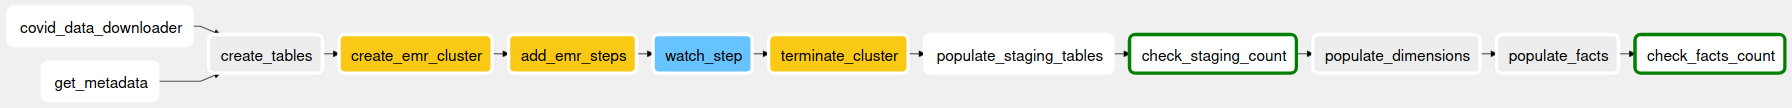
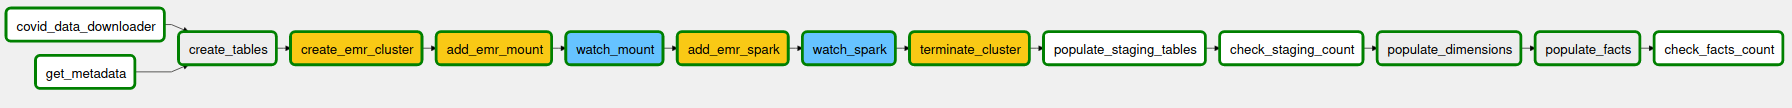
Add full documentation
- Rename main DAG
- Add READMEs
- Add requirements

ETL logic
- Separate EMR Steps to individual ones
- Simplify SQL sttmts to insert

diff --git a/plugins/helpers/sql_queries.py b/plugins/helpers/sql_queries.py
@@ -68,7 +68,6 @@ class SqlQueries :
 	"""
 
 	# DIMENSION tables
-
 	date_create = """CREATE OR REPLACE VIEW v_dim_date as
 		(SELECT
 		  	TO_CHAR(datum, 'YYYYMMDD')::INTEGER								AS date_id , 
@@ -177,21 +176,25 @@ class SqlQueries :
 	countries_insert = """
 		INSERT INTO dim_country (name, iso2, iso3)
 			SELECT DISTINCT c.name as name, c.alpha_2 as iso2, c.alpha_3  as iso3
-				FROM countries_staging c ;
+				FROM countries_staging c 
+				WHERE c.alpha_2 is not null 
+					AND c.alpha_2 NOT IN ( SELECT DISTINCT alpha_2 from dim_country );
 	"""
 
 	airports_insert = """ 
 		INSERT INTO dim_airport ( ref_id, code , type, name, municipality, country_iso2 )
 			SELECT DISTINCT id as ref_id , code, type, name, municipality , iso_country as country_iso2 
 				FROM airports_staging 
-				WHERE code IS NOT NULL ;
+				WHERE code IS NOT NULL 
+					AND code NOT IN (SELECT code FROM dim_airport) ;
 	"""
 
 	airlines_insert = """ 
 		INSERT INTO dim_airline ( code, name )
 			SELECT DISTINCT REGEXP_SUBSTR ( callsign, '[A-Za-z]{3}') as airline_code, 'TODO: Enrich' as airline_name
 				from flights_staging 
-				WHERE callsign IS NOT NULL ;
+				WHERE callsign IS NOT NULL 
+					AND airline_code not in (SELECT code FROM dim_airline)  ;
 	;"""
 
 
@@ -202,35 +205,40 @@ class SqlQueries :
 
 	airport_arrivals_insert = """
 		INSERT INTO f_airportarrivals ( fk_date, country_iso2, airport_code, nr_arrivals )
-			SELECT 
-				replace(left(f.arrival_at, 10), '-', '')::INTEGER fk_date,
-				a.iso_country as country_iso2,
-				a.code as airport_code,
-				count(distinct f.trasponder_id) as nr_arrivals 
-			FROM flights_staging as f 
-			LEFT JOIN airports_staging as a 
-				on a.code = f.arrival_airport_id
-			WHERE 
-				country_iso2 is not null
-			GROUP BY 
-				fk_date , country_iso2, airport_code ;
+			(
+				SELECT 
+					DISTINCT 
+					replace(left(f.arrival_at, 10), '-', '')::INTEGER fk_date,
+					a.iso_country as country_iso2,
+					a.code as airport_code,
+					count(distinct f.trasponder_id) as nr_arrivals 
+				FROM flights_staging as f 
+				LEFT JOIN airports_staging as a 
+					on a.code = f.arrival_airport_id
+				WHERE 
+					country_iso2 is not null and airport_code is not null and fk_date is not null
+				GROUP BY 
+					fk_date , country_iso2, airport_code 
+			);
 	"""
 
 	airline_flights_insert = """  
 		INSERT INTO f_airlineflights ( fk_date, airline_code , arrival_code, departure_code, nr_planes )
-			SELECT 
-				replace(left(f.arrival_at, 10), '-', '')::INTEGER fk_date,
-				REGEXP_SUBSTR ( f.callsign, '[A-Za-z]{3}') as airline_code,
-				a.code as arrival_code,
-				d.code as departure_code,
-				count(distinct f.trasponder_id) as nr_planes 
-			FROM flights_staging as f 
-			LEFT JOIN airports_staging as a 
-				ON a.code = f.arrival_airport_id
-			LEFT JOIN airports_staging as d 
-				ON d.code = f.depart_airport_id	
-			GROUP BY 
-				fk_date , arrival_code, airline_code, departure_code ;
+			( 
+				SELECT 
+					DISTINCT 
+                    replace(left(f.arrival_at, 10), '-', '')::INTEGER fk_date,
+					REGEXP_SUBSTR ( f.callsign, '[A-Za-z]{3}') as airline_code,
+					arrival_airport_id as arrival_code,
+					depart_airport_id as departure_code,
+					count(distinct f.trasponder_id) as nr_planes 
+				FROM flights_staging as f 
+				WHERE 
+					fk_date is not null and airline_code is not null
+				GROUP BY 
+					fk_date , arrival_code, airline_code, departure_code
+			)
+			;
 	"""
 
 	covid_per_country_insert = """
@@ -270,10 +278,11 @@ class SqlQueries :
 					FROM covid c
 					LEFT JOIN vaccination v
 						ON v.date = c.date_reported and c.alpha_2 = v.alpha_2
+					WHERE
+ 						fk_date is not null and country_iso2 is not null	
 					ORDER BY fk_date DESC 
 				)
 	"""
-
 
 	populate_facts_sttmts = [ airport_arrivals_insert , airline_flights_insert , covid_per_country_insert ]
 

diff --git a/dags/airflow_dag.py b/dags/airflow_dag.py
@@ -81,18 +81,34 @@ create_emr_task = EmrCreateJobFlowOperator(
     dag=dag
 )
 
-add_emr_steps_task = EmrAddStepsOperator(
-    task_id='add_emr_steps',
+add_emr_mount_task = EmrAddStepsOperator(
+    task_id='add_emr_mount',
     job_flow_id="{{ task_instance.xcom_pull(task_ids='create_emr_cluster', key='return_value') }}",
     aws_conn_id='aws_credentials',
-    steps=EmrHandler.SPARK_STEPS,
+    steps=EmrHandler.SPARK_STEP_MOUNT,
     dag=dag
 )
 
-watch_steps_task = EmrStepSensor(
-    task_id='watch_step',
+watch_mount_task = EmrStepSensor(
+    task_id='watch_mount',
     job_flow_id="{{ task_instance.xcom_pull('create_emr_cluster', key='return_value') }}",
-    step_id="{{ task_instance.xcom_pull(task_ids='add_emr_steps', key='return_value')[0] }}",
+    step_id="{{ task_instance.xcom_pull(task_ids='add_emr_mount', key='return_value')[0] }}",
+    aws_conn_id='aws_credentials',
+    dag=dag
+)
+
+add_emr_spark_task = EmrAddStepsOperator(
+    task_id='add_emr_spark',
+    job_flow_id="{{ task_instance.xcom_pull(task_ids='create_emr_cluster', key='return_value') }}",
+    aws_conn_id='aws_credentials',
+    steps=EmrHandler.SPARK_STEP_SPARK,
+    dag=dag
+)
+
+watch_spark_task = EmrStepSensor(
+    task_id='watch_spark',
+    job_flow_id="{{ task_instance.xcom_pull('create_emr_cluster', key='return_value') }}",
+    step_id="{{ task_instance.xcom_pull(task_ids='add_emr_spark', key='return_value')[0] }}",
     aws_conn_id='aws_credentials',
     dag=dag
 )
@@ -152,9 +168,11 @@ get_metadata_task >> create_tables_task
 covid_data_task >> create_tables_task
 
 create_tables_task >> create_emr_task 
-create_emr_task >> add_emr_steps_task
-add_emr_steps_task >> watch_steps_task
-watch_steps_task >> terminate_cluster_task
+create_emr_task >> add_emr_mount_task
+add_emr_mount_task >> watch_mount_task
+watch_mount_task >> add_emr_spark_task
+add_emr_spark_task >> watch_spark_task
+watch_spark_task >> terminate_cluster_task
 
 terminate_cluster_task >> populate_staging_task 
 populate_staging_task >> check_staging_task

diff --git a/plugins/helpers/emr_manager.py b/plugins/helpers/emr_manager.py
@@ -11,14 +11,15 @@ class EmrHandler :
 		instance_type - (str) - type of EMR master and worker nodes
 		worker_nodes - (int) - nr of worker nodes
 		JOB_FLOW_OVERRIDES - (str) - configurations for EMR cluster
-		SPARK_STEPS - (str) - steps to add for EMR cluster ETL process
+		SPARK_STEP_MOUNT - (str) - steps to add mount on EMR cluster
+		SPARK_STEP_SPARK - (str) - steps to add Spark ETL process to EMR cluster 
 		shell_script - (str) - shell script to upload to S3 to automate zenodo files download 
 	"""
 
 	s3_bucket='udacity-awss'
 
 	instance_type = "m5.xlarge"
-	worker_nodes = 2
+	worker_nodes = 3
 	key_name = "emr_udacity"
 
 
@@ -56,7 +57,7 @@ class EmrHandler :
 
 	##################################
 
-	SPARK_STEPS = [ # Note the params values are supplied to the operator
+	SPARK_STEP_MOUNT = [ # Note the params values are supplied to the operator
         {
             'Name': 'Mount s3fs and download files',
             'ActionOnFailure': 'CANCEL_AND_WAIT',
@@ -66,7 +67,10 @@ class EmrHandler :
                     's3://'+ s3_bucket +'/mount_s3fs.sh',
                 ]
             }
-        },
+        }
+	]
+	
+	SPARK_STEP_SPARK = [
        {
             'Name': 'Run Spark for downloaded data',
             'ActionOnFailure': 'CANCEL_AND_WAIT',
@@ -76,13 +80,13 @@ class EmrHandler :
                     'spark-submit',
                      '--deploy-mode',
                      'cluster',
-                     '--master',
-                     'yarn',
+                     #'--master',
+                     #'yarn',
                      's3a://' + s3_bucket +  '/etl/spark_etl.py'
                 ]
             }
         }
-	]
+    ]
 
 
 	shell_script = """

diff --git a/plugins/operators/redshift_operator.py b/plugins/operators/redshift_operator.py
@@ -73,7 +73,7 @@ class S3ToRedshiftOperator(BaseOperator):
                 table_copy_sql = S3ToRedshiftOperator.copy_sql
 
             self.log.info("Clearing data from destination Redshift table")
-            redshift.run("DELETE FROM {}".format(table['name']))
+            redshift.run("TRUNCATE {}".format(table['name']))
 
             self.log.info("Copying data from S3 to Redshift")
             rendered_key = table['s3_key'].format(**context)

diff --git a/README.md b/README.md
@@ -1,0 +1,36 @@
+## Scope  
+This is the capstone project for the Data Engineering Nanodegree.  
+
+In this project I built a data pipeline to gather data from worldwide flights and COVID cases per territory, to understand the spread of the disease and its impact in our mobility. Additionally, the development of vaccines brings hope for the near future. The present work also includes data on vaccination, which will help track and evaluate the effects in terms of prevalence of cases, as well as the rebound of aviation and the travel industry.   
+
+This theme was chosen for its recency and the academic interest and challenge it presents, due to the high cardinality provided by flights data.  
+
+## Technologies  
+Airflow, AWS EMR, Spark, AWS S3, Python, Pandas, SQL, ETL, Bash, Big Data, Data Lake, Data Warehousing,   
+
+## Data Pipeline  
+The data pipeline consists of roughly 4 phases :  
+1. Process Metadata and raw data files acquisition  
+2. Raw data preprocessing and load to staging - locally and to S3 using EMR  
+3. Dimensional model transformation and Load  
+4. Data validation and counts  
+
+For more detail, please consult `docs/2.0 data_pipeline.md` file.  
+
+## Data Model  
+We followed a simple Star Schema approach, described on `docs/1.0 data_model.md`, in which the following tables were considered:  
+
+Dimensions: Country, Airport , Airline, Date  
+
+Facts: Airport Arrivals, Airline Flights , COVID per Country  
+
+Tables marked as TODO were initially considered, but out of scope for this delivery. Still, I argue that it would be interesting to have a social media study, with setiment analysis and keyword evaluation for the future.     
+
+![Data Model](docs/img/data_model.png "Data Model")  
+
+Please consult `docs/0. presentation_an_motivation.md` for more information on the project's motivation, sources and thought use cases.  
+
+## Future work  
+Additional sources can be included, leveraging the existing pipeline. One suggestion, already presented, is the inclusion of a social thermometer through Tweets. One interesting exercice could potentially be to employ sentiment analysis, geographical distribution and evolution comparison with COVID prevalence.  
+Including macroeconomic indicators, such as GDP, could also be interesting to evaluate the effect of COVID on each economy. This is a more traditional exercise, that I did not consider.  
+

diff --git a/instructions.md b/instructions.md
@@ -1,33 +1,12 @@
-Instructions  
-  
-  
-1. Install dependencies  
-	zenodo_get , pip install zenodo-get  
-	pyspark
-	boto3
-	pycountry
+1. Install requirements   
   
 2. Create variables in airflow
-	project_root: the root folder of the project
-	input_folder: folder where pre-staging data will be stored
-	aws_credentials: insert extras {"region_name": "<YOUR_REGION>"}
-	emr_connection = aws_credentials (no extras required)
+	aws_credentials: login and password as KEY and SECRET. Insert extras {"region_name": "<YOUR_REGION>"}
+	emr_connection: similar to aws_credentials (no extras required)
+	s3_credentials: similar to emr connection, AWS KEY and SECRET
+	redshift: configure connection to redshift
 
-3. Mount file system in EC2 instance. 
-	$ s3fs udacity-awss -o use_cache=/tmp -o allow_other -o uid=1001 -o mp_umask=002 -o multireq_max=5 /home/udacity_mount
+3. Edit configurations file under "configs/global.cfg" 
 
-
-
-References :  
-https://kulasangar.medium.com/create-an-emr-cluster-and-submit-a-job-using-boto3-c34134ef68a0  	
-
-EMR Scripts: 
-https://docs.aws.amazon.com/emr/latest/ReleaseGuide/emr-hadoop-script.html
-
-Mount s3: 
-https://cloudkul.com/blog/mounting-s3-bucket-linux-ec2-instance/
-
-Airports db:
-https://ourairports.com/data/
-https://ourairports.com/data/airports.csv
+4. Trigger Airflow run 
 

diff --git a/docs/2.0 data_pipeline.md b/docs/2.0 data_pipeline.md
@@ -3,7 +3,7 @@
 ![Airflow Pipeline Steps](img/pipeline.png "Airflow PipelineSteps")
 
 The data pipeline consists roughly of four general phases in our ETL process, which are subdivided into the following tasks in our dag :  
-1. Getting the raw data / files from selected sources tasks:  
+1. Getting metadata and the raw data files from selected sources tasks:  
 -__covid_data_downloader__: get data from Library, JSON and CSV formats through GET requests, and store in S3 bucket, in CSV format. Low to medium cardinality  
 -__get_metadata__: fetch metadata for Zenodo repository downloads and store it in S3 bucket for later download. Information stored as individual download URLs.  
 Upload etl files necessary for Spark process on EMR instances  

diff --git a/docs/references.md b/docs/references.md
@@ -1,0 +1,13 @@
+References :  
+https://kulasangar.medium.com/create-an-emr-cluster-and-submit-a-job-using-boto3-c34134ef68a0  	
+
+EMR Scripts: 
+https://docs.aws.amazon.com/emr/latest/ReleaseGuide/emr-hadoop-script.html
+
+Mount s3: 
+https://cloudkul.com/blog/mounting-s3-bucket-linux-ec2-instance/
+
+Airports db:
+https://ourairports.com/data/
+https://ourairports.com/airports.csv
+

diff --git a/docs/4. improvements.md b/docs/4. improvements.md
@@ -1,0 +1,6 @@
+Process improvements TODO :  
+
+- Implement SCD type 6   
+- Implement Backfill with monthly partitioning for Big Data (flights) pipeline  
+- Create system meta-information tables and columns, such as ETL_LAST_RUN, LAST_UPDATED_ON ...   
+- Create option to run full ETL or partition by month, week, etc  
